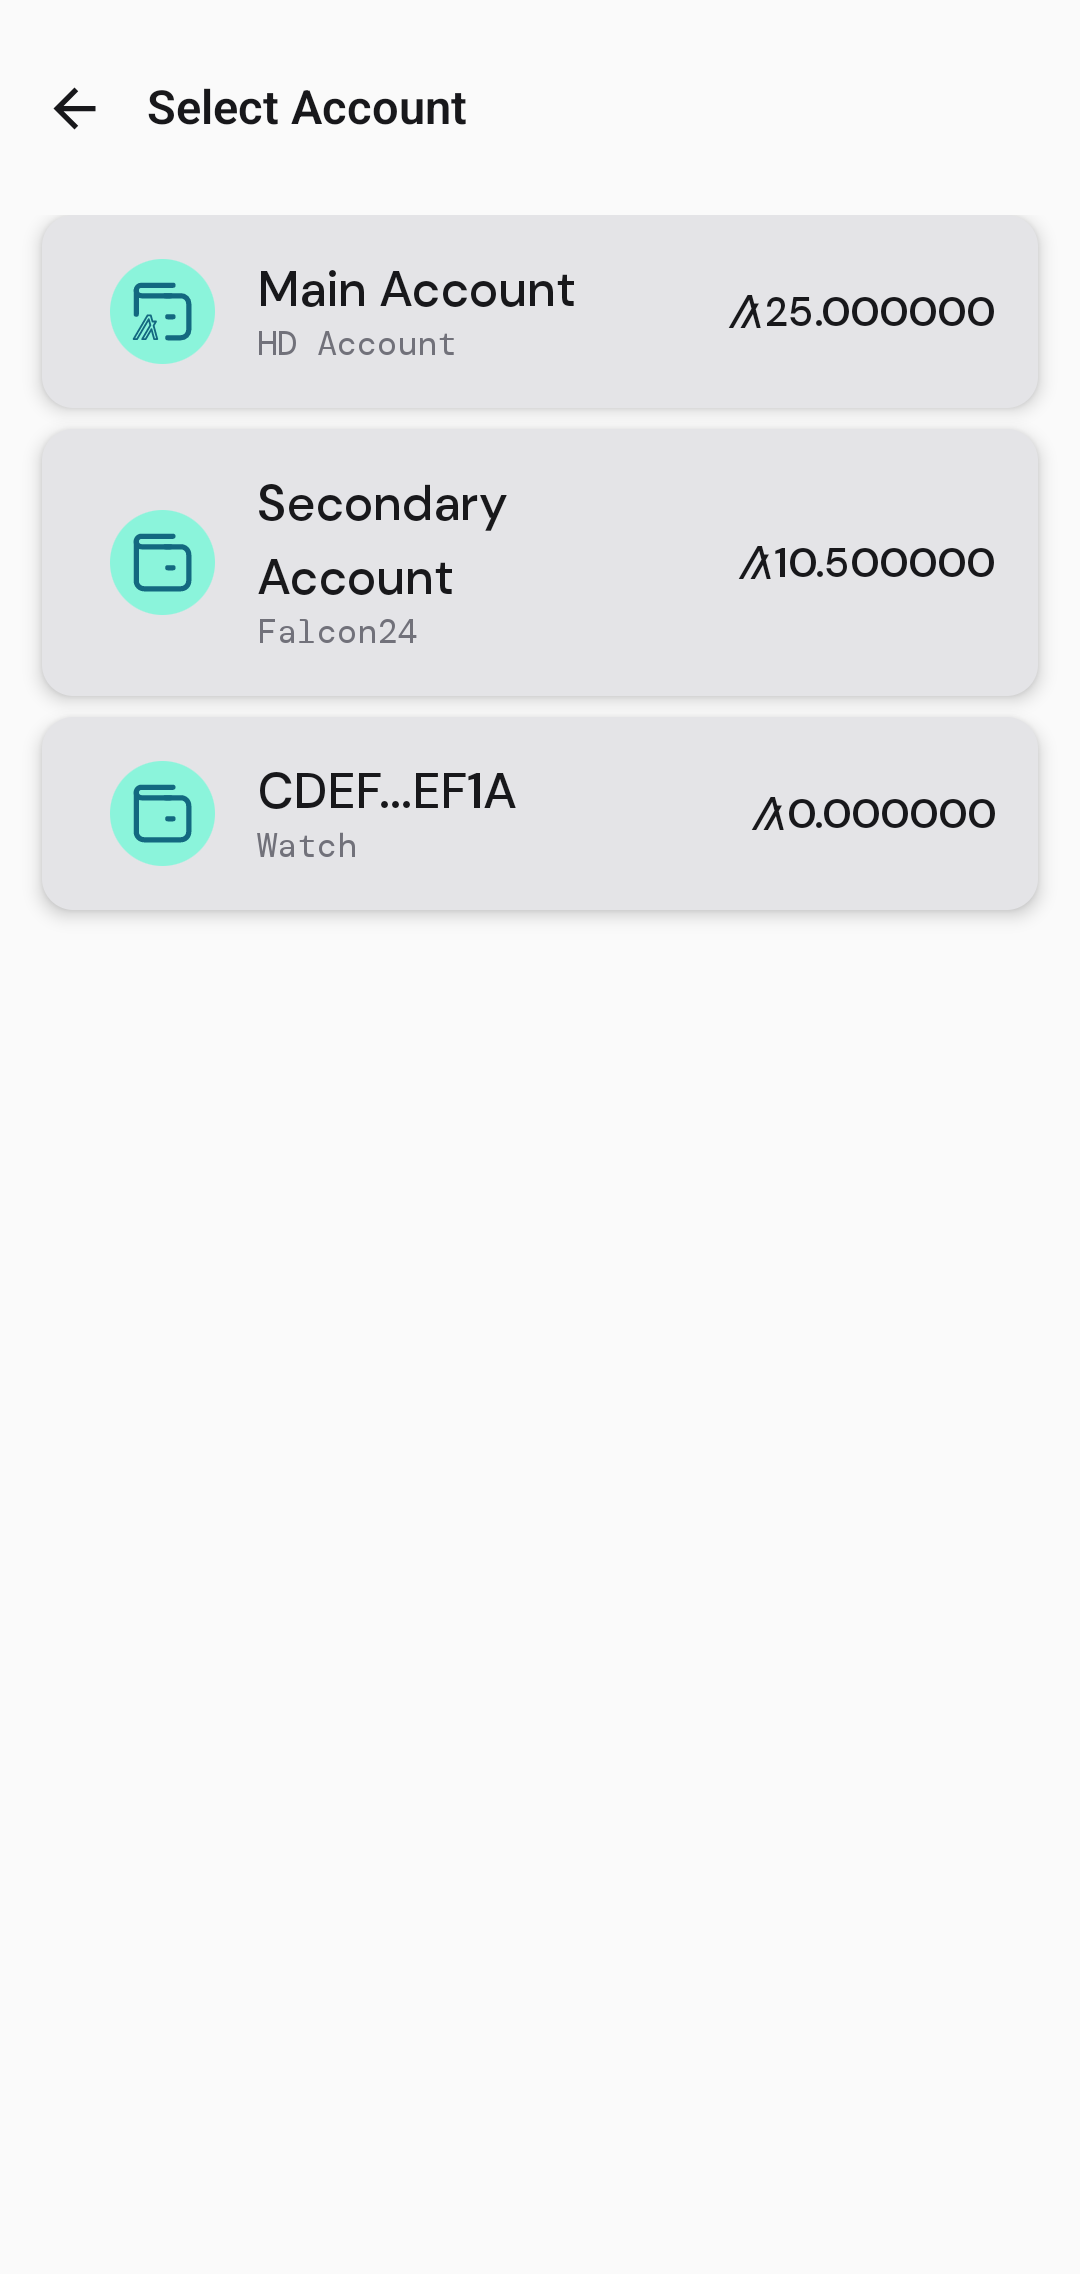
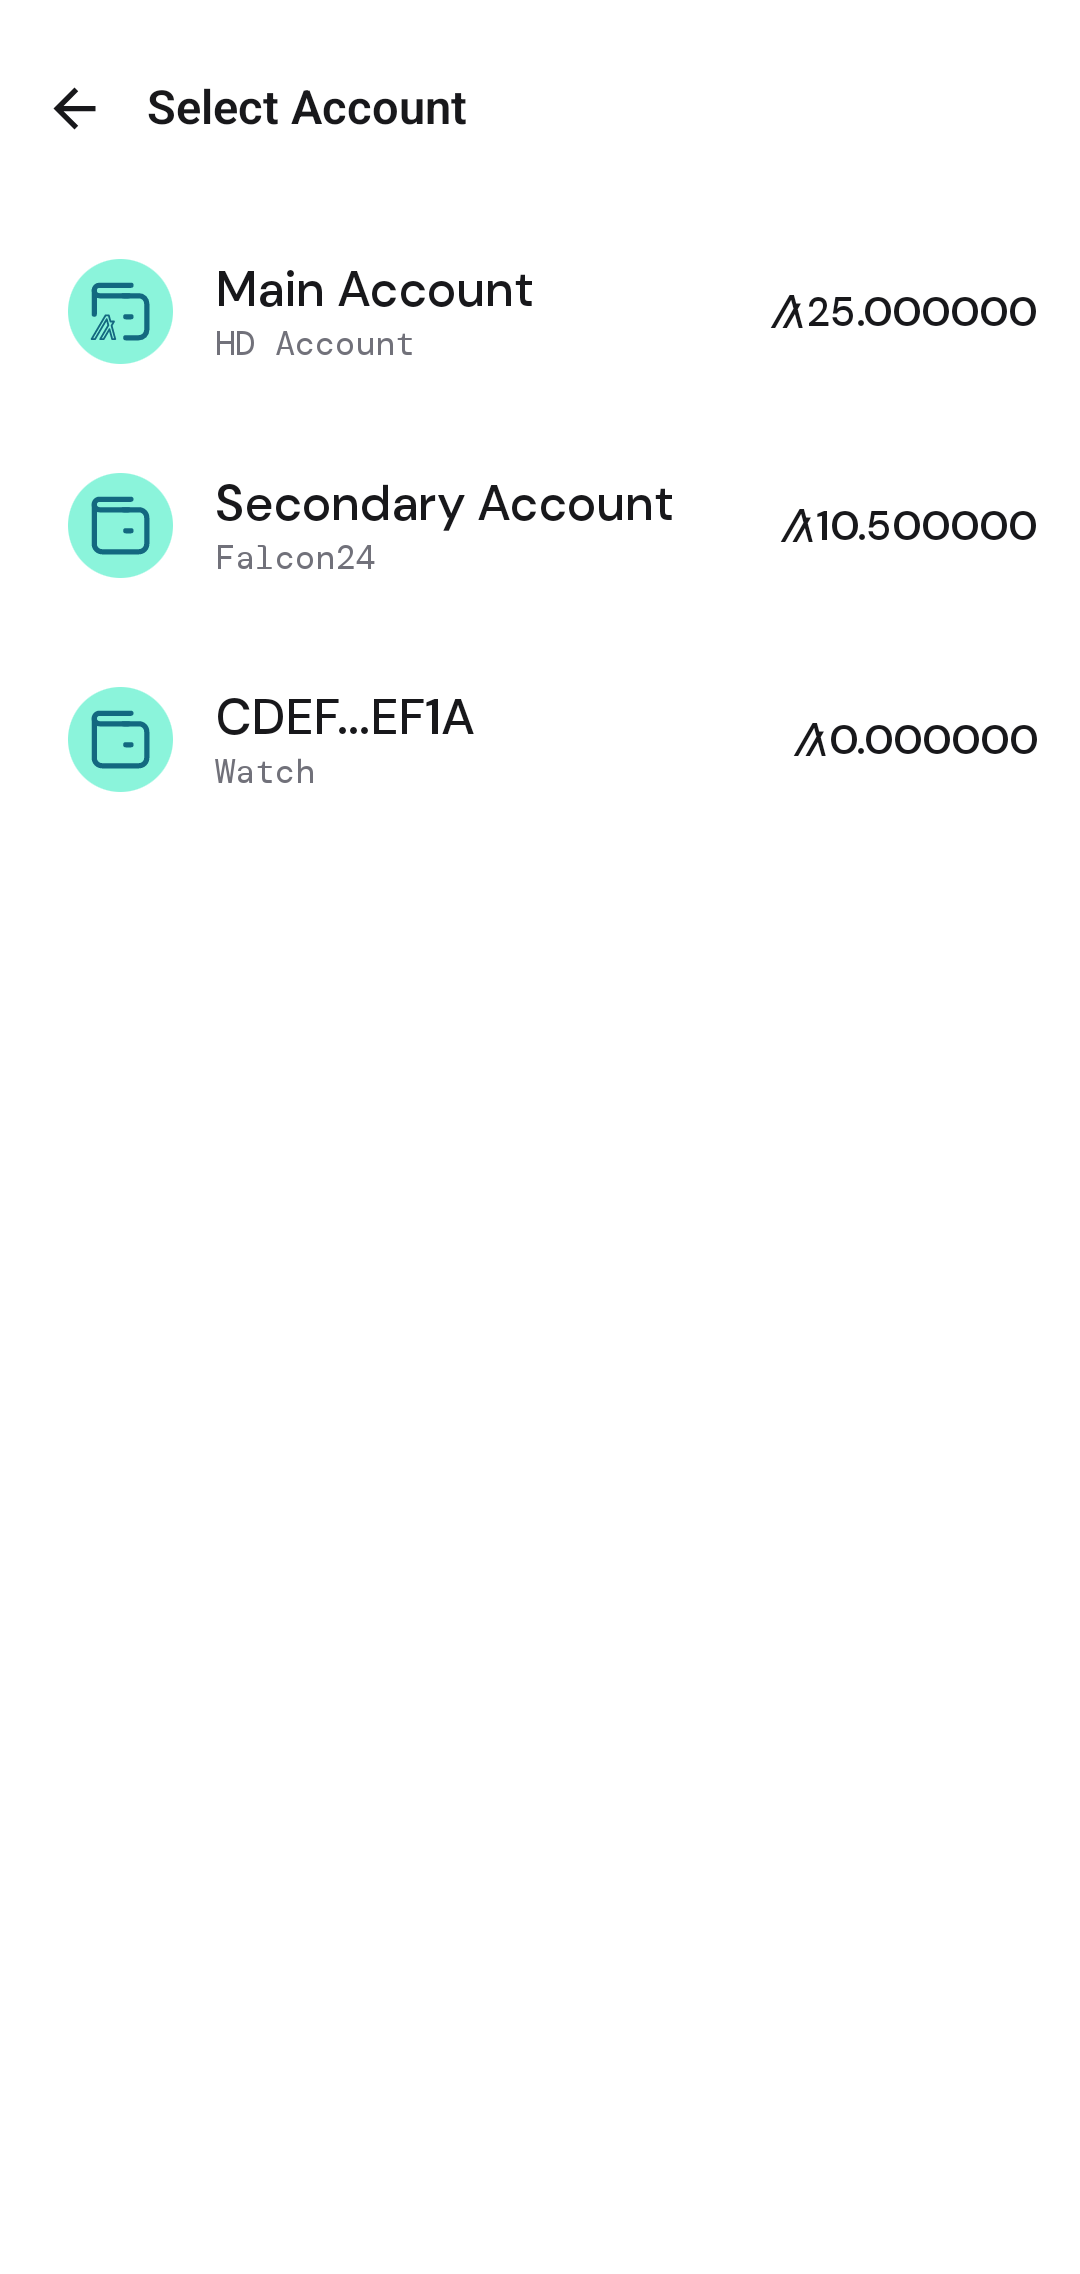
fix: update SelectAccountScreen

Changed region(s): [[0.0306, 0.0937, 0.9778, 0.4059]]

diff --git a/wallet-sdk-ui/screenshots/debug/index.html b/wallet-sdk-ui/screenshots/debug/index.html
@@ -855,7 +855,7 @@
             {
                 "name": "Recover Falcon24/Algo25 Account with QR Flow",
                 "steps": [
-                    "QRScannerScreenShotTest_testContent",
+                    "QRScannerScreenshotTest_testContent",
                     "RecoveryPhraseScreenshotTest_testContent",
                     "CreateAccountNameScreenshotTest_testContent"
                 ]
@@ -909,7 +909,7 @@
             {
                 "name": "Key Reg Flow",
                 "steps": [
-                    "QRScannerScreenShotTest_testContent",
+                    "QRScannerScreenshotTest_testContent",
                     "KeyRegConfirmScreenshotTest_testContent",
                     "TransactionSuccessScreenshotTest_testContent"
                 ]
@@ -917,7 +917,7 @@
             {
                 "name": "Asset Transfer using QR Code Flow",
                 "steps": [
-                    "QRScannerScreenShotTest_testContent",
+                    "QRScannerScreenshotTest_testContent",
                     "SelectAccountScreenshotTest_testContent",
                     "AssetTransferConfirmScreenshotTest_testContent",
                     "TransactionSuccessScreenshotTest_testContent"
@@ -1026,6 +1026,22 @@
                 // Each section contains an array of flow objects
                 const flows = customFlows[sectionName];
                 flows.forEach(flowObj => {
+                    // Check if this flow contains the selected screen (if any)
+                    let flowContainsSelectedScreen = filters.screen === '';
+                    if (filters.screen !== '') {
+                        flowContainsSelectedScreen = flowObj.steps.some(step => {
+                            // Extract testClass from step pattern (e.g., "SettingsScreenshotTest_testContent" -> "SettingsScreenshotTest")
+                            const stepTestClass = step.split('_')[0];
+                            // Check for exact testClass match to avoid substring issues (e.g., Settings vs DeveloperSettings)
+                            return stepTestClass === filters.screen;
+                        });
+                    }
+
+                    // Skip this flow if it doesn't contain the selected screen
+                    if (!flowContainsSelectedScreen) {
+                        return;
+                    }
+
                     const group = document.createElement('div');
                     group.className = 'flow-group';
 
@@ -1042,15 +1058,15 @@
                     let addedCount = 0;
 
                     flowScreenshots.forEach(screenshotPattern => {
-                        // Find matching screenshots
+                        // Find matching screenshots - use exact match instead of includes to avoid substring issues
                         const matchingScreenshots = screenshotData.filter(screenshot => {
                             const fullName = `${screenshot.testClass}_${screenshot.testName}`;
-                            const matchesPattern = fullName.includes(screenshotPattern);
+                            // Exact match on the full pattern
+                            const matchesPattern = fullName === screenshotPattern;
                             const matchesLocale = screenshot.locale === filters.locale;
                             const matchesTheme = screenshot.theme === filters.theme;
-                            const matchesScreen = filters.screen === '' || screenshot.testClass === filters.screen;
 
-                            return matchesPattern && matchesLocale && matchesTheme && matchesScreen;
+                            return matchesPattern && matchesLocale && matchesTheme;
                         });
 
                         // Add the first matching screenshot (limit to 4 total per flow)
@@ -1059,9 +1075,6 @@
                             const imageWrapper = createImageWrapper(screenshot);
                             images.appendChild(imageWrapper);
                             addedCount++;
-                        } else if (addedCount < 4) {
-                            // Debug: log when no match is found
-                            console.log(`No match found for pattern: ${screenshotPattern} with locale=${filters.locale}, theme=${filters.theme}`);
                         }
                     });
 
@@ -1204,7 +1217,7 @@
         cards.forEach(card => {
             const matchesLocale = filters.locale === card.dataset.locale;
             const matchesTheme = filters.theme === card.dataset.theme;
-            const matchesScreen = filters.screen === '' || card.dataset.testclass === filters.screen;
+            const matchesScreen = filters.screen === '' || card.dataset.testclass === filters.screen.toLowerCase();
 
             if (matchesLocale && matchesTheme && matchesScreen) {
                 card.classList.remove('hidden');

diff --git a/wallet-sdk-ui/src/commonMain/kotlin/com/michaeltchuang/walletsdk/ui/signing/screens/SelectAccountScreen.kt b/wallet-sdk-ui/src/commonMain/kotlin/com/michaeltchuang/walletsdk/ui/signing/screens/SelectAccountScreen.kt
@@ -3,6 +3,7 @@ package com.michaeltchuang.walletsdk.ui.signing.screens
 import algokit_walletsdk_kmp.wallet_sdk_ui.generated.resources.Res
 import algokit_walletsdk_kmp.wallet_sdk_ui.generated.resources.ic_hd_wallet
 import algokit_walletsdk_kmp.wallet_sdk_ui.generated.resources.ic_wallet
+import androidx.compose.foundation.background
 import androidx.compose.foundation.clickable
 import androidx.compose.foundation.layout.Arrangement
 import androidx.compose.foundation.layout.Box
@@ -15,8 +16,6 @@ import androidx.compose.foundation.layout.height
 import androidx.compose.foundation.layout.padding
 import androidx.compose.foundation.lazy.LazyColumn
 import androidx.compose.foundation.lazy.items
-import androidx.compose.material3.Card
-import androidx.compose.material3.CardDefaults
 import androidx.compose.material3.CircularProgressIndicator
 import androidx.compose.material3.Text
 import androidx.compose.runtime.Composable
@@ -100,9 +99,14 @@ fun ScreenContent(
         modifier =
             Modifier
                 .fillMaxSize()
-                .padding(16.dp),
+                .background(AlgoKitTheme.colors.background),
     ) {
-        Column(modifier = Modifier.fillMaxSize()) {
+        Column(
+            modifier =
+                Modifier
+                    .fillMaxSize()
+                    .padding(16.dp),
+        ) {
             AlgoKitTopBar(
                 title = "Select Account",
                 onClick = onBack,
@@ -136,7 +140,7 @@ fun ScreenContent(
                 is SelectAccountViewModel.AccountsState.Error -> {
                     CenteredMessage(
                         text = "Error: ${viewState.message}",
-                        color = Color.Red,
+                        color = AlgoKitTheme.colors.negative,
                     )
                 }
             }
@@ -150,14 +154,16 @@ private fun CenteredLoader() {
         modifier = Modifier.fillMaxSize(),
         contentAlignment = Alignment.Center,
     ) {
-        CircularProgressIndicator()
+        CircularProgressIndicator(
+            color = AlgoKitTheme.colors.textMain,
+        )
     }
 }
 
 @Composable
 private fun CenteredMessage(
     text: String,
-    color: Color = Color.Unspecified,
+    color: Color = AlgoKitTheme.colors.textMain,
 ) {
     Box(
         modifier = Modifier.fillMaxSize(),
@@ -194,24 +200,19 @@ private fun AccountItem(
     account: AccountLite,
     onAccountItemClick: (address: String) -> Unit,
 ) {
-    Card(
+    Box(
         modifier =
             Modifier
                 .fillMaxWidth()
                 .clickable(onClick = {
                     onAccountItemClick(account.address)
                 }),
-        elevation = CardDefaults.cardElevation(4.dp),
-        colors =
-            CardDefaults.cardColors(
-                containerColor = AlgoKitTheme.colors.layerGray,
-            ),
     ) {
         Row(
             modifier =
                 Modifier
                     .fillMaxWidth()
-                    .padding(16.dp),
+                    .padding(vertical = 16.dp),
             verticalAlignment = Alignment.CenterVertically,
         ) {
             AlgoKitIconRoundShape(

diff --git a/wallet-sdk-ui/src/androidTest/kotlin/com/michaeltchuang/walletsdk/ui/qrscanner/screens/QRScannerScreenshotTest.kt b/wallet-sdk-ui/src/androidTest/kotlin/com/michaeltchuang/walletsdk/ui/qrscanner/screens/QRScannerScreenshotTest.kt
@@ -12,16 +12,16 @@ class QRScannerScreenshotTest(
     locale: Locale,
     darkTheme: Boolean,
 ) : BaseScreenshotTest(locale, darkTheme) {
-
     private fun allowPermissionsIfNeeded() {
         val device = UiDevice.getInstance(InstrumentationRegistry.getInstrumentation())
         try {
             // Look for "Allow" or "While using the app" button
-            val allowButton = device.findObject(
-                UiSelector()
-                    .textMatches("(?i)(allow|while using the app|only this time)")
-                    .clickable(true)
-            )
+            val allowButton =
+                device.findObject(
+                    UiSelector()
+                        .textMatches("(?i)(allow|while using the app|only this time)")
+                        .clickable(true),
+                )
             if (allowButton.exists()) {
                 allowButton.click()
                 Thread.sleep(500)

diff --git a/wallet-sdk-ui/src/androidTest/kotlin/com/michaeltchuang/walletsdk/ui/signing/screens/AssetTransferConfirmScreenshotTest.kt b/wallet-sdk-ui/src/androidTest/kotlin/com/michaeltchuang/walletsdk/ui/signing/screens/AssetTransferConfirmScreenshotTest.kt
@@ -10,7 +10,6 @@ class AssetTransferConfirmScreenshotTest(
     locale: Locale,
     darkTheme: Boolean,
 ) : BaseScreenshotTest(locale, darkTheme) {
-
     @Test
     fun testContent() {
         setTestContent {

diff --git a/wallet-sdk-ui/src/androidTest/kotlin/com/michaeltchuang/walletsdk/ui/onboarding/screens/OnboardingAccountTypeScreenshotTest.kt b/wallet-sdk-ui/src/androidTest/kotlin/com/michaeltchuang/walletsdk/ui/onboarding/screens/OnboardingAccountTypeScreenshotTest.kt
@@ -8,7 +8,6 @@ class OnboardingAccountTypeScreenshotTest(
     locale: Locale,
     darkTheme: Boolean,
 ) : BaseScreenshotTest(locale, darkTheme) {
-
     @Test
     fun testContent() {
         setTestContent {

diff --git a/wallet-sdk-ui/src/androidTest/kotlin/com/michaeltchuang/walletsdk/ui/onboarding/screens/CreateWatchAccountScreenshotTest.kt b/wallet-sdk-ui/src/androidTest/kotlin/com/michaeltchuang/walletsdk/ui/onboarding/screens/CreateWatchAccountScreenshotTest.kt
@@ -11,7 +11,6 @@ class CreateWatchAccountScreenshotTest(
     locale: Locale,
     darkTheme: Boolean,
 ) : BaseScreenshotTest(locale, darkTheme) {
-
     @Test
     fun testContent() {
         setTestContent {

diff --git a/wallet-sdk-ui/src/androidTest/kotlin/com/michaeltchuang/walletsdk/ui/settings/screens/HDWalletSelectionScreenshotTest.kt b/wallet-sdk-ui/src/androidTest/kotlin/com/michaeltchuang/walletsdk/ui/settings/screens/HDWalletSelectionScreenshotTest.kt
@@ -10,7 +10,6 @@ class HDWalletSelectionScreenshotTest(
     locale: Locale,
     darkTheme: Boolean,
 ) : BaseScreenshotTest(locale, darkTheme) {
-
     @Test
     fun testContent() {
         setTestContent {

diff --git a/wallet-sdk-ui/src/androidTest/kotlin/com/michaeltchuang/walletsdk/ui/onboarding/screens/RecoveryPhraseScreenshotTest.kt b/wallet-sdk-ui/src/androidTest/kotlin/com/michaeltchuang/walletsdk/ui/onboarding/screens/RecoveryPhraseScreenshotTest.kt
@@ -10,7 +10,6 @@ class RecoveryPhraseScreenshotTest(
     locale: Locale,
     darkTheme: Boolean,
 ) : BaseScreenshotTest(locale, darkTheme) {
-
     @Test
     fun testContent() {
         setTestContent {

diff --git a/wallet-sdk-ui/src/androidTest/kotlin/com/michaeltchuang/walletsdk/ui/accountdetails/screens/AccountDetailScreenshotTest.kt b/wallet-sdk-ui/src/androidTest/kotlin/com/michaeltchuang/walletsdk/ui/accountdetails/screens/AccountDetailScreenshotTest.kt
@@ -12,7 +12,6 @@ class AccountDetailScreenshotTest(
     locale: Locale,
     darkTheme: Boolean,
 ) : BaseScreenshotTest(locale, darkTheme) {
-
     @Test
     fun testContent() {
         setTestContent {

diff --git a/wallet-sdk-ui/src/androidTest/kotlin/com/michaeltchuang/walletsdk/ui/signing/screens/SendAlgoScreenshotTest.kt b/wallet-sdk-ui/src/androidTest/kotlin/com/michaeltchuang/walletsdk/ui/signing/screens/SendAlgoScreenshotTest.kt
@@ -11,7 +11,6 @@ class SendAlgoScreenshotTest(
     locale: Locale,
     darkTheme: Boolean,
 ) : BaseScreenshotTest(locale, darkTheme) {
-
     @Test
     fun testContent() {
         setTestContent {
